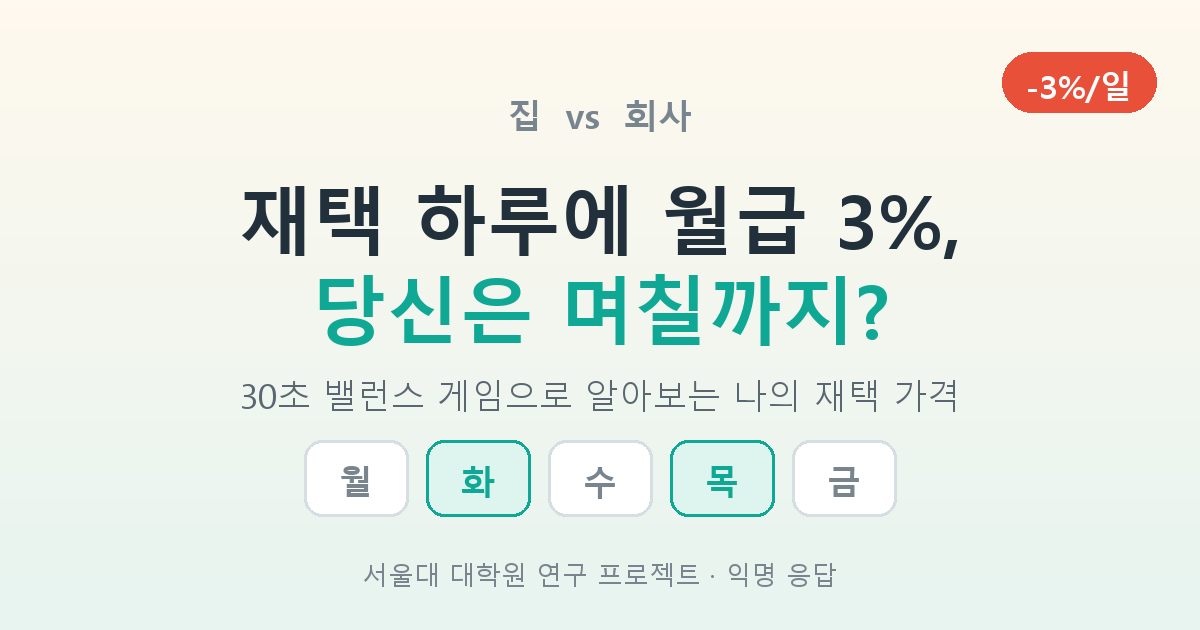
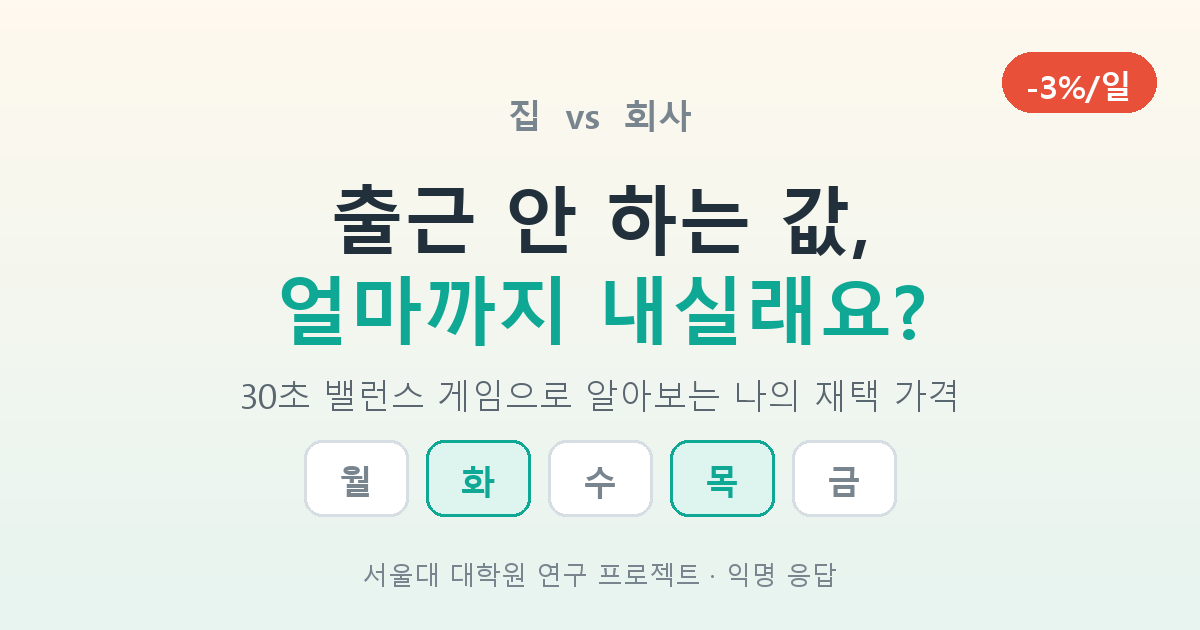
결과 화면에 30년 환산/직군 비교 추가, 썸네일 카피 변경
- 30년 통근 총량을 년/개월로 환산 (깨어있는 시간 기준 병기)
- 같은 직군 내 상위% + 직군 평균 대비 위치 (표본 5명 미만이면 숨김)
- OG 카피를 '출근 안 하는 값, 얼마까지 내실래요?'로 변경
- 게임 내부 문항/판정 로직은 변경 없음

Changed region(s): [[0.185, 0.2714, 0.8017, 0.573]]

diff --git a/index.html b/index.html
@@ -7,17 +7,17 @@
 <!-- 카톡/SNS 링크 미리보기 (Open Graph) -->
 <meta property="og:type" content="website">
 <meta property="og:url" content="https://prehyejin.github.io/workfromhome-game/">
-<meta property="og:title" content="재택 하루에 월급 3%, 당신은 며칠까지?">
+<meta property="og:title" content="출근 안 하는 값, 얼마까지 내실래요?">
 <meta property="og:description" content="30초 밸런스 게임으로 알아보는 나의 재택 가격. 정답 없음, 고민될수록 정상.">
 <meta property="og:image" content="https://prehyejin.github.io/workfromhome-game/og-image.png">
 <meta property="og:image:width" content="1200">
 <meta property="og:image:height" content="630">
 <meta property="og:image:type" content="image/png">
-<meta property="og:image:alt" content="재택 하루에 월급 3%, 당신은 며칠까지? — 재택 밸런스 게임">
+<meta property="og:image:alt" content="출근 안 하는 값, 얼마까지 내실래요? — 재택 밸런스 게임">
 <meta property="og:site_name" content="재택 밸런스 게임">
 <meta property="og:locale" content="ko_KR">
 <meta name="twitter:card" content="summary_large_image">
-<meta name="twitter:title" content="재택 하루에 월급 3%, 당신은 며칠까지?">
+<meta name="twitter:title" content="출근 안 하는 값, 얼마까지 내실래요?">
 <meta name="twitter:description" content="30초 밸런스 게임으로 알아보는 나의 재택 가격.">
 <meta name="twitter:image" content="https://prehyejin.github.io/workfromhome-game/og-image.png">
 <style>
@@ -187,6 +187,14 @@ h1{font-size:25px;line-height:1.4;margin:26px 0 10px;color:#17252f}
 <div class="blk">
 <h3>&#128184; 내 선택, 1년으로 환산하면</h3>
 <div class="out" id="cout"></div>
+</div>
+<div class="blk">
+<h3>&#9203; 30년으로 늘려보면</h3>
+<div class="out" id="lout"></div>
+</div>
+<div class="blk" id="jobblk" style="display:none">
+<h3>&#128188; 같은 직군 사람들과 비교하면</h3>
+<div class="out" id="jout"></div>
 </div>
 <div class="blk">
 <h3>&#127482;&#127480; 미국과 비교하면</h3>
@@ -381,6 +389,30 @@ function annual(r){
                  : `<br><span style="font-size:12.5px">시간가치보다 더 내겠다는 선택 — 재택엔 시간 이상의 무언가가 있죠.</span>`;
   }
   document.getElementById('cout').innerHTML = s;
+  lifetime(r);
+}
+function ym(h, perDay){            // 시간 -> "N년 M개월"
+  const days = h/perDay, y = Math.floor(days/365), m = Math.round((days%365)/30.4);
+  if(y<=0) return `${Math.max(m,1)}개월`;
+  return m>0 ? `${y}년 ${m}개월` : `${y}년`;
+}
+function lifetime(r){
+  const YEARS = 30;
+  // 지금처럼 주5일 출근을 30년 유지할 경우의 통근 총량
+  const total = Math.round(C*2*5*4.33*12*YEARS/60);
+  let s = `앞으로 <b>${YEARS}년</b>을 지금처럼 주5일 출근하면<br>`
+        + `통근에만 <b style="color:#E8503A">${total.toLocaleString()}시간</b>을 씁니다.<br>`
+        + `<span style="font-size:12.5px;color:#5b6770">잠자는 시간까지 포함해 꼬박 <b>${ym(total,24)}</b>, `
+        + `깨어있는 시간(하루 16시간)만 세면 <b>${ym(total,16)}</b>.</span>`;
+  if(r.days>0){
+    const back = Math.round(C*2*r.days*4.33*12*YEARS/60);
+    s += `<br><br>당신이 선택한 재택 주${r.days}일이면 이 중 <b style="color:#0FA894">${back.toLocaleString()}시간</b>`
+       + ` — <b>${ym(back,16)}</b>치 깨어있는 삶을 돌려받습니다.`;
+  } else {
+    s += `<br><br><span style="font-size:12.5px;color:#5b6770">재택 주2일만 해도 이 중 `
+       + `<b>${ym(Math.round(C*2*2*4.33*12*YEARS/60),16)}</b>를 돌려받을 수 있어요.</span>`;
+  }
+  document.getElementById('lout').innerHTML = s;
 }
 function usCompare(r){
   const mine = Math.max(r.cut,0);
@@ -406,7 +438,35 @@ function loadStats(r){
           <div class="sbw"><div class="sbf" style="width:${n/max*100}%"></div></div><span>${pct}%</span></div>`;
       }).join('');
     document.getElementById('statblk').style.display='block';
+    jobCompare(r, d);
   }).catch(()=>{});
+}
+const JOB_MIN = 5;   // 이보다 적으면 비교가 오해를 부르므로 숨김
+function jobCompare(r, d){
+  if(J===null || !d.jobs) return;
+  const g = d.jobs[String(J)];
+  if(!g || g.n < JOB_MIN) return;
+
+  const mine = Math.max(r.cut,0);
+  let sum=0, higher=0, same=0;
+  Object.keys(g.cuts).forEach(k=>{
+    const c=+k, n=g.cuts[k];
+    sum += c*n;
+    if(c>mine) higher+=n; else if(c===mine) same+=n;
+  });
+  const avg = sum/g.n;
+  const top = Math.round((higher + same/2)/g.n*100);   // 동점은 절반으로 — 순위 왜곡 방지
+  const label = jobName().split(' (')[0];
+
+  let s = `<b>${label}</b> 응답자 <b>${g.n}명</b> 중에서<br>`
+        + `당신은 재택에 <b style="color:#0FA894">상위 ${Math.max(top,1)}%</b>만큼 후한 편입니다.`
+        + `<br><br>같은 직군 평균 수락 차감률 <b>${avg.toFixed(1)}%</b> ↔ 당신 <b>${mine}%</b>`;
+  s += mine>avg ? `<br><span style="font-size:12.5px;color:#5b6770">평균보다 재택에 더 많이 지불할 의향이 있으시네요.</span>`
+     : (mine<avg ? `<br><span style="font-size:12.5px;color:#5b6770">같은 직군 중에선 신중한 편이시네요.</span>`
+                 : `<br><span style="font-size:12.5px;color:#5b6770">딱 평균이시네요.</span>`);
+  s += `<br><span style="font-size:11.5px;color:#94a1ab">* 표본이 ${g.n}명이라 아직 참고용이에요.</span>`;
+  document.getElementById('jout').innerHTML = s;
+  document.getElementById('jobblk').style.display='block';
 }
 function confetti(){
   const ems=['&#127968;','&#127881;','&#9989;','&#128184;','&#9200;'];

diff --git a/make_og.py b/make_og.py
@@ -18,8 +18,8 @@ GRAY = (120, 133, 143)
 BOLD = "C:/Windows/Fonts/malgunbd.ttf"
 REG = "C:/Windows/Fonts/malgun.ttf"
 
-TITLE1 = "재택 하루에 월급 3%,"
-TITLE2 = "당신은 며칠까지?"
+TITLE1 = "출근 안 하는 값,"
+TITLE2 = "얼마까지 내실래요?"
 SUB = "30초 밸런스 게임으로 알아보는 나의 재택 가격"
 FOOT = "서울대 대학원 연구 프로젝트 · 익명 응답"
 